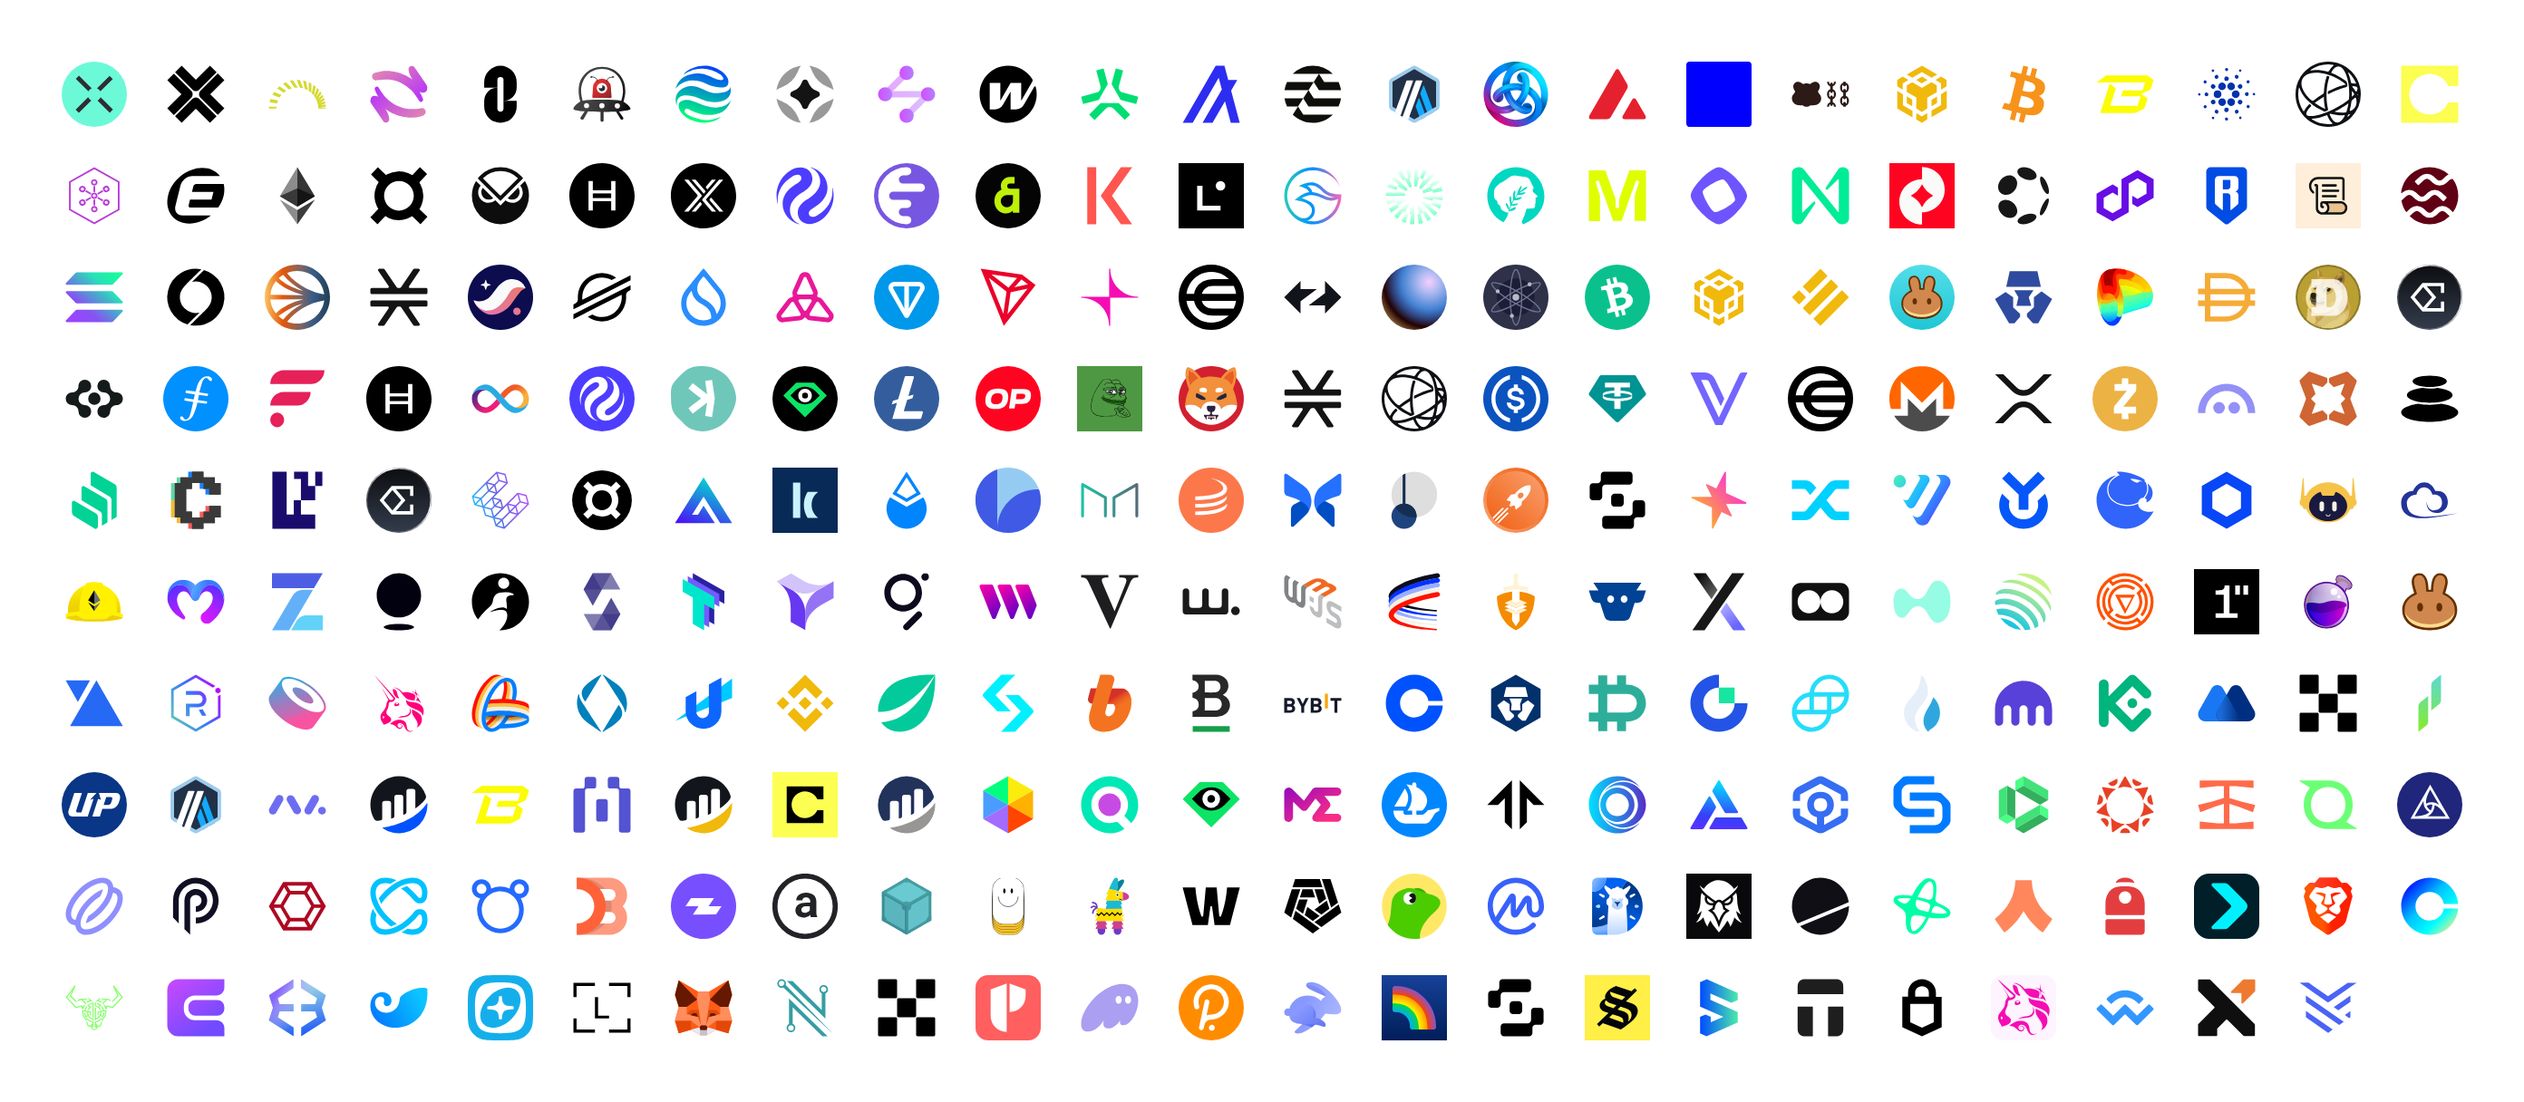
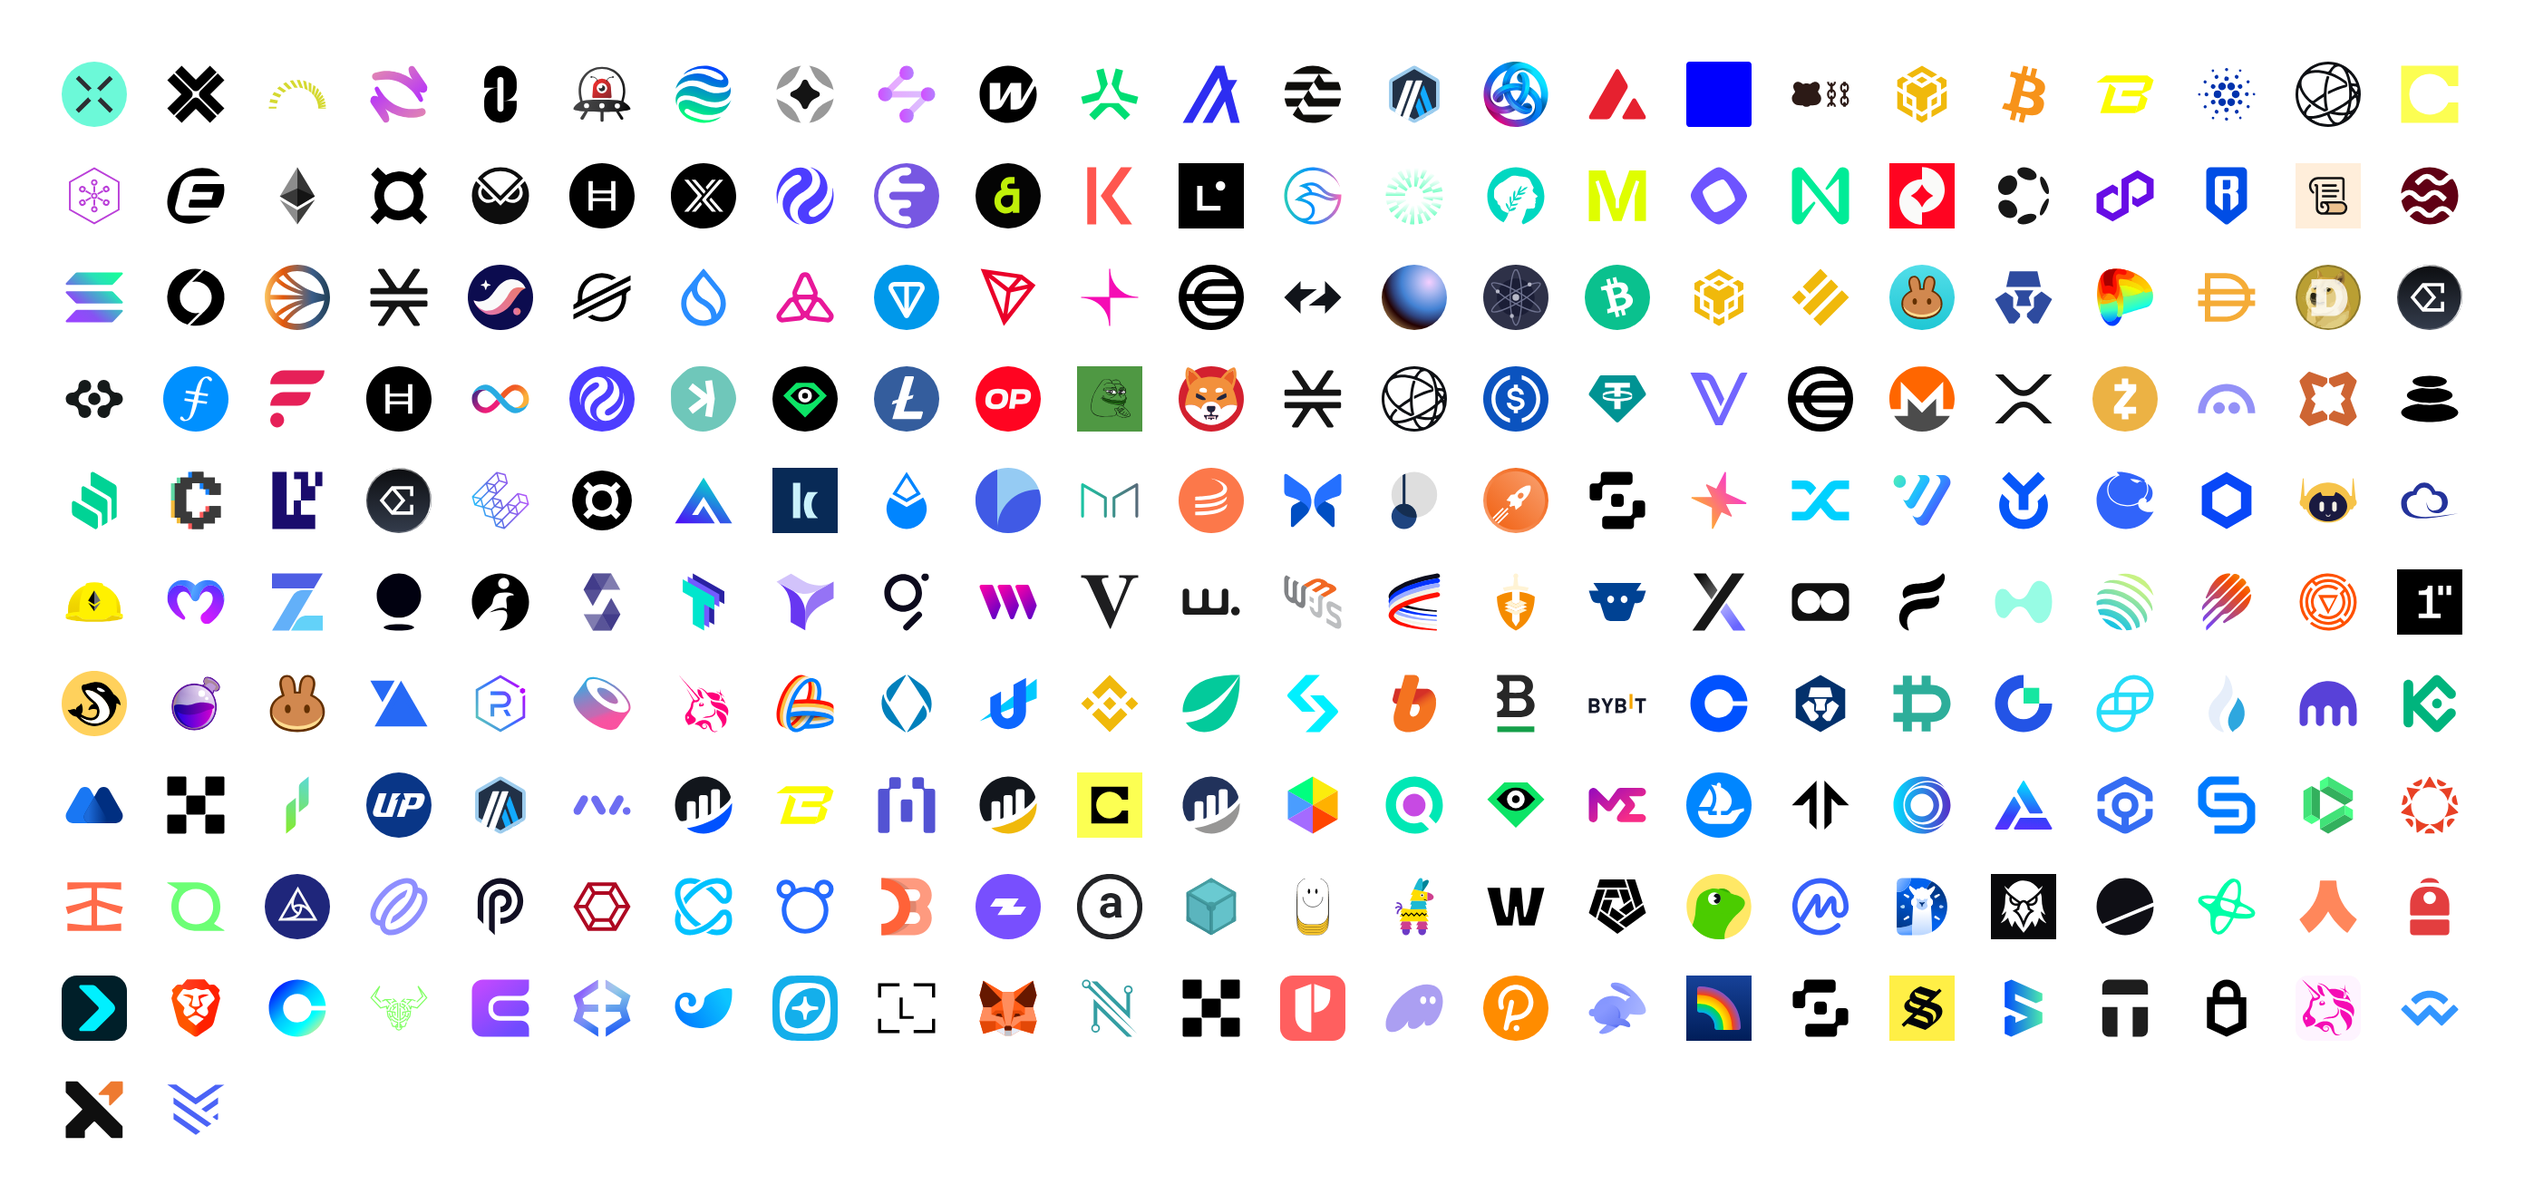
feat(dex): add Orca, Meteora and Fluid (#858)
* feat(dex): add Orca, Meteora and Fluid icons

Add Orca, Meteora and Fluid (#709) from official sources, each with a
Mono variant and a DEX slug (orca, meteora, fluid):

- Orca: logomark.svg from the brand-assets folder linked from
  docs.orca.so/reference/brand. Mono derived with boolean ops (orca
  ink, belly knocked out, disc separated by a 1.2-unit seam).
- Meteora: meteora-v2/symbol/symbol.svg from MeteoraAg/brand-kit, with
  symbol-negative.svg as the mono.
- Fluid: the sign from docs.fluid.io/fluid-logo-light.svg (the same
  paths fluid.io serves). Fluid publishes the sign in one colour only,
  so Fluid is black and FluidMono uses currentColor.

Curve is not re-added here: the official mark is a 1,521-polygon mesh
that costs about 25 kB brotli on its own (see #678 and #836).

Claude-Session: https://claude.ai/code/session_0113jxgcTGsEPf2j7H39sjZS

* chore(size): recompute every size-limit entry with the headroom policy

Orca, Meteora and Fluid take the dex entry to 15.78 kB, past its 14 kB
limit. Per CONTRIBUTING ("Bundle Size Limits"), all entries are
re-measured after `pnpm run build` and set to current size + max(10%,
1 kB), rounded up to the next whole kB (next 5 kB above 50 kB), instead
of nudging the one entry.

Claude-Session: https://claude.ai/code/session_0113jxgcTGsEPf2j7H39sjZS

* chore(size): re-measure every size-limit entry after merging develop

With Orca, Meteora and Fluid on top of the merged develop, the dex
[…]

Changed region(s): [[0.0, 0.0312, 1.0, 0.9688]]

diff --git a/src/dex/Orca.tsx b/src/dex/Orca.tsx
@@ -1,0 +1,45 @@
+import { createIcon } from '../utils';
+
+// Source: https://docs.orca.so/reference/brand (official brand assets folder: Orca Logo/logomark.svg)
+// Default: the official logomark.svg from the Orca Logo folder of the brand-assets Google Drive linked from docs.orca.so/reference/brand (yellow #FFD15C disc, black orca, white belly), SVGO and grid placement only
+// Mono: the brand kit has no one-colour logomark; derived mechanically from logomark.svg with boolean ops: the visible black orca stays ink, the white belly and eye are knocked out, and the yellow disc is ink separated from the orca by a 1.2-unit seam (on the 64 grid)
+/** Orca DEX icon (colored). */
+export const Orca = /* @__PURE__ */ createIcon(
+  'Orca',
+  '0 0 64 64',
+  () => (
+    <>
+      <path
+        fill="#FFD15C"
+        d="M64 32c0 17.67-14.33 32-32 32S0 49.67 0 32 14.33 0 32 0s32 14.33 32 32"
+      />
+      <path
+        fill="black"
+        d="M55.55 27.1c-1.62-2.27-3.34-3.45-4.41-4.03a24 24 0 0 0-1.26-2.05q-1.99-2.9-4.1-4.99-1.96-1.93-4.05-3.15c-2.4-1.4-4.9-2.09-7.62-2.1h-.03c-2.5 0-4.77.58-6.67 1.13l-1.64.5c-1.37.43-2.66.83-3.76 1.01q-1.12.18-1.73.84-.59.61-.68 1.61c-.13 1.25.32 2.92 1.28 4.84 1.92 3.82 5.6 8.04 9.38 10.73a10 10 0 0 1 1.1.92c-2.95.42-4.48 3.58-5.1 5.28-.16.45.28.85.73.7 1.78-.6 5.37-1.57 7.47-.42.4 1.87.23 3.72-.48 5.15a5 5 0 0 1-1.84 2.1q-1.28.83-3.05.91-1.92.1-4.28-.7-2.56-.85-5.58-2.72l-.03-.02-.04-.02-.07-.04c2.85-3.43 1.11-8.62.42-10.33-.1-.23-.41-.23-.54-.02-1.63 2.76-4.97 2.56-4.9 5.84h-.01c-2.55-2.08-4.45.68-7.63.26-.24-.03-.44.22-.31.43.91 1.6 3.91 6.14 8.35 6.04l.54.59.54.59q3.27 3.61 7.08 5.66 3.54 1.9 7.35 2.35 1.14.13 2.28.13c4.4 0 8.78-1.48 12.53-4.27q3.16-2.37 5.34-5.62 2.21-3.33 3.07-7.12.56-2.5.47-5.04c1.39-.41 2.93.82 3.68 1.54.18.17.48.06.48-.19-.04-1.15-.37-3.64-2.28-6.32m-12.7 20.97c-3.77 2.68-8.22 3.87-12.57 3.36-2.2-.26-4.37-.95-6.43-2.06q-2.97-1.6-5.62-4.3 5.93 3.6 10.46 3.6l.53-.01q2.45-.12 4.32-1.33 1.77-1.15 2.75-3.12.86-1.75.94-3.88a12 12 0 0 0-.53-4.02c-.84-2.82-2.6-5.3-4.94-6.96-1.73-1.24-3.47-2.84-5.02-4.64-1.26-1.45-2.33-2.94-3.13-4.37l-.02-.03-.03-.04c-.13-.25-.48-1.07.62-1.23 10.43-1.49 31.63 18.31 18.68 29.03"
+      />
+      <path
+        fill="white"
+        d="M24.19 19.04c-1.1.16-.76.98-.63 1.23l.03.05.02.02c.8 1.43 1.87 2.92 3.13 4.37 1.55 1.8 3.29 3.4 5.02 4.64 2.34 1.66 4.1 4.14 4.94 6.96q.61 2.02.53 4.02-.08 2.13-.94 3.88-.98 1.96-2.75 3.12-1.87 1.2-4.32 1.33h-.53q-4.53 0-10.46-3.59 2.65 2.7 5.62 4.3 3.11 1.67 6.43 2.06c4.35.51 8.8-.68 12.58-3.37 12.95-10.7-8.25-30.5-18.68-29.02"
+      />
+      <path fill="black" d="M16.87 42.72h.01z" />
+      <path
+        fill="white"
+        d="M35.04 18.32c-.36-.51-1.08-1.89 1.16-1.89s5.67 2.55 6.37 3.48c-.22.58-1.67.7-2.39.65s-1.95-.17-2.9-.65-1.88-1.09-2.24-1.6"
+      />
+    </>
+  ),
+  { fill: 'none' },
+);
+
+/** Orca DEX icon (monochrome). */
+export const OrcaMono = /* @__PURE__ */ createIcon(
+  'OrcaMono',
+  '0 0 64 64',
+  () => (
+    <path
+      fillRule="evenodd"
+      d="M64 32c0 17.67-14.33 32-32 32S0 49.67 0 32 14.33 0 32 0s32 14.33 32 32m-7.47-5.6c-1.77-2.4-3.35-3.52-4.51-4.2-.35-.63-.67-1.16-1.15-1.86-1.36-1.97-2.8-3.74-4.25-5.16-1.36-1.33-2.83-2.48-4.28-3.33-2.55-1.47-5.34-2.24-8.22-2.26h-.04c-2.64 0-5.08.6-7 1.17l-1.66.5c-1.37.43-2.59.82-3.6.98-.91.17-1.83.63-2.42 1.2-.5.58-.89 1.48-1 2.31-.1 1.47.4 3.46 1.4 5.5C21.72 25 25.31 29.2 29 32a7 7 0 0 0-2 1.78c-.93 1.17-1.54 2.56-1.87 3.45-.07.3-.12.77-.05 1.03.07.27.3.65.5.83.34.32 1.22.47 1.8.38 1.74-.59 4.35-1.84 6.01-.75.24 1.46.16 2.6-.5 3.82-.34.76-.74 1.22-1.4 1.62-.7.48-1.43.7-2.46.72-1.14.07-2.36-.13-3.84-.63q-2.06-.68-4.43-2.07c.95-1.79 1.2-3.83 1.06-5.51-.18-2.1-.84-4-1.2-4.87-.13-.23-.38-.57-.57-.69-.2-.12-.57-.23-.78-.23-.38-.01-1.01.4-1.33.74-.57 1.15-1.64 1.6-2.73 2.34-.77.53-1.52 1.3-1.96 2.42a5.3 5.3 0 0 0-3.13.05c-1.27.4-2.27.97-3.53.71-.47.05-1.18.3-1.41.6-.13.16-.28.52-.3.75s.1.63.2.87c.47.82 1.55 2.51 3.08 3.94 1.5 1.4 3.22 2.63 5.76 2.67l.2.22.54.6c2.24 2.46 4.78 4.49 7.4 5.9 2.45 1.31 5.14 2.17 7.78 2.5q1.21.13 2.42.13c4.6 0 9.33-1.63 13.24-4.5a25 25 0 0 0 5.63-5.92c1.52-2.31 2.64-4.9 3.24-7.53.39-1.74.46-2.7.5-4.06q.04 0 0 0l.32.17c.53.28.98.66 1.33 1 .42.24 1.2.46 1.57.32.2-.08.54-.33.68-.53.13-.2.23-.63.26-.9-.05-1.2-.49-4.02-2.5-6.97m1.3 7.02c0 .25-.3.36-.48.19-.75-.72-2.3-1.95-3.69-1.54a20 20 0 0 1-.46 5.04q-.85 3.78-3.07 7.12a23 23 0 0 1-5.34 5.62c-3.75 2.8-8.13 4.27-12.53 4.27q-1.14 0-2.28-.13-3.81-.46-7.35-2.35-3.8-2.05-7.08-5.66l-.54-.6-.54-.58c-4.44.1-7.44-4.44-8.35-6.04-.13-.21.07-.46.31-.43 3.18.42 5.08-2.34 7.63-.27v.01c-.05-3.28 3.28-3.08 4.91-5.84.13-.2.44-.21.54.02.7 1.7 2.43 6.9-.42 10.33l.07.04.04.02.03.02q3 1.87 5.58 2.73 2.36.78 4.28.7 1.76-.1 3.05-.92a5 5 0 0 0 1.84-2.1c.7-1.43.87-3.28.48-5.15-2.1-1.15-5.7-.19-7.47.41-.45.16-.9-.24-.73-.69.62-1.7 2.15-4.86 5.09-5.28h.02a10 10 0 0 0-1.1-.92c-3.78-2.7-7.47-6.9-9.4-10.73-.95-1.92-1.4-3.59-1.27-4.84q.1-1 .68-1.61.61-.66 1.73-.84c1.1-.18 2.4-.58 3.76-1.01l1.64-.5c1.9-.55 4.18-1.12 6.67-1.12h.03c2.73 0 5.22.69 7.62 2.1q2.09 1.21 4.05 3.14 2.11 2.08 4.1 5 .69 1 1.26 2.04c1.07.58 2.79 1.77 4.4 4.03 1.92 2.68 2.25 5.17 2.29 6.32m-26.07-4.07c2.04 1.45 3.64 3.52 4.58 5.9q.2.52.36 1.06.61 2.02.53 4.02-.08 2.13-.94 3.88-.98 1.96-2.75 3.12-1.87 1.2-4.32 1.33h-.53q-4.53 0-10.46-3.59 2.65 2.7 5.62 4.3c2.06 1.1 4.23 1.8 6.43 2.06 4.35.51 8.8-.68 12.58-3.37 12.95-10.7-8.25-30.5-18.68-29.02-.79.11-.83.57-.74.91a2 2 0 0 0 .17.4c.8 1.42 1.87 2.91 3.13 4.36 1.55 1.8 3.29 3.4 5.02 4.64m5.53-9.44c.94.48 2.17.6 2.9.65s2.16-.07 2.38-.65c-.7-.93-4.13-3.48-6.37-3.48s-1.52 1.38-1.16 1.88c.36.51 1.3 1.13 2.25 1.6"
+    />
+  ),
+  { fill: 'currentColor' },
+);

diff --git a/src/dex/Meteora.tsx b/src/dex/Meteora.tsx
@@ -1,0 +1,45 @@
+import { createIcon } from '../utils';
+
+// Source: https://github.com/MeteoraAg/brand-kit/blob/main/meteora-v2/symbol/symbol.svg
+// Source: https://github.com/MeteoraAg/brand-kit/blob/main/meteora-v2/symbol/symbol-negative.svg
+// Source: https://docs.meteora.ag/resources/miscellaneous/brand-kit
+// Default: meteora-v2/symbol/symbol.svg of the official brand kit linked from docs.meteora.ag (gradient #F5BD00 / #F54B00 / #6E45FF)
+// Mono: meteora-v2/symbol/symbol-negative.svg of the same kit (the one-colour #12121C symbol), with its fill set to currentColor
+/** Meteora DEX icon (colored). */
+export const Meteora = /* @__PURE__ */ createIcon(
+  'Meteora',
+  '0 0 64 64',
+  (_props, _id) => (
+    <g transform="translate(-2.47 -2.29)scale(.28572)">
+      <path
+        fill={`url(#${_id}-paint0_linear_7728_54)`}
+        d="M185.89 66.89c3.31-3.32 8.45-3.12 10.57.39 2.3 3.76 4.03 7.84 5.26 12.1.7 2.43-.1 5.26-2.12 7.28l-64.9 64.9c-3.92 3.92-8.8 6.63-13.97 7.73l-5.4 1.15c-5.15 1.12-10.06 3.83-13.96 7.73L51.54 218c-2.12-8.19-3.05-13.71 3.6-20.36zm14.06 27.96c2.16-2.17 5.5-.91 5.28 1.95-1.34 17.5-9.68 35.92-24.53 50.78-11.33 12.4-43.3 31.38-66.14 44.09-4.68 2.6-8.5-2.94-4.66-6.78l90.02-90.02zm-29.87-54.2c2.06-2.06 5.09-2.5 7.17-1.07 4.33 2.95 8.38 7.21 10.46 12.37.78 1.99.1 4.44-1.6 6.15L116.2 128c-3.93 3.92-8.8 6.63-13.97 7.73l-5.4 1.15c-5.15 1.13-10.07 3.83-13.96 7.73l-43.12 43.12c-2.12-8.19-1.1-15.66 5.54-22.3l25.17-25.17zm-29.62-12.43c3.9-3.9 9.48-5.42 14.07-3.69a52 52 0 0 1 8.27 4.03c3.47 2.08 3.64 7.15.4 10.4l-63.93 63.92c-3.66 3.66-8.64 5.61-13.4 5.27-5.01-.37-10.27 1.69-14.15 5.56L36.7 148.73c-2.12-8.19.63-17.4 7.28-24.04zM130.2 22c3.08-.04 4.27 3.62 1.93 5.95l-33.2 33.2-27.71 27.72-7.04 7.04-10.79 10.78c-2.25 2.26-5.58.22-4.33-2.64l10.48-23.82a77 77 0 0 1 1.95-4.42l.07-.15c6.04-12.8 15.76-26.37 24.9-35.51 14.66-14.66 27.83-18 43.75-18.15"
+      />
+      <defs>
+        <linearGradient
+          id={`${_id}-paint0_linear_7728_54`}
+          x1="236.8"
+          x2="67.91"
+          y1="22.23"
+          y2="217.51"
+          gradientUnits="userSpaceOnUse"
+        >
+          <stop stopColor="#F5BD00" />
+          <stop offset=".36" stopColor="#F54B00" />
+          <stop offset="1" stopColor="#6E45FF" />
+        </linearGradient>
+      </defs>
+    </g>
+  ),
+  { fill: 'none', ids: true },
+);
+
+/** Meteora DEX icon (monochrome). */
+export const MeteoraMono = /* @__PURE__ */ createIcon(
+  'MeteoraMono',
+  '0 0 64 64',
+  () => (
+    <path d="M50.64 16.82c.95-.94 2.42-.89 3.02.12a14 14 0 0 1 1.5 3.45c.2.7-.02 1.5-.6 2.08L36.02 41.02c-1.12 1.12-2.52 1.9-4 2.2l-1.54.33c-1.47.32-2.87 1.1-3.98 2.21L12.26 60c-.6-2.34-.87-3.91 1.03-5.82zm4.02 8c.62-.63 1.57-.27 1.51.55-.38 5-2.77 10.26-7.01 14.51-3.24 3.54-12.37 8.97-18.9 12.6-1.33.74-2.42-.84-1.33-1.94zm-8.53-15.5c.59-.58 1.45-.7 2.05-.3 1.23.84 2.39 2.06 2.98 3.54.23.56.03 1.26-.45 1.75L30.73 34.3c-1.12 1.12-2.51 1.89-4 2.2l-1.53.33a8 8 0 0 0-3.99 2.21L8.89 51.35c-.6-2.34-.31-4.47 1.58-6.37l7.2-7.2zm-8.47-3.54c1.12-1.12 2.71-1.55 4.02-1.06a15 15 0 0 1 2.37 1.15c.99.6 1.04 2.05.11 2.97L25.9 27.11c-1.05 1.04-2.47 1.6-3.83 1.5-1.43-.1-2.94.49-4.05 1.6l-10 10c-.6-2.34.18-4.97 2.08-6.87zM34.73 4c.88-.01 1.22 1.03.55 1.7l-9.48 9.48-7.92 7.93-2.01 2v.01l-3.08 3.08c-.64.65-1.6.06-1.24-.75l3-6.81a22 22 0 0 1 .55-1.26l.02-.05c1.73-3.65 4.5-7.53 7.12-10.14 4.19-4.2 7.95-5.15 12.5-5.19" />
+  ),
+  { fill: 'currentColor' },
+);

diff --git a/src/dex/Fluid.tsx b/src/dex/Fluid.tsx
@@ -1,0 +1,33 @@
+import { createIcon } from '../utils';
+
+// Source: https://docs.fluid.io/fluid-logo-light.svg
+// Source: https://fluid.io (site sign: /assets/fluid-sign-*.js, same paths)
+// Default: the Sign group of the official docs.fluid.io/fluid-logo-light.svg (fill #000000); its two paths are identical to the standalone sign fluid.io serves (white, for its dark UI)
+// Fluid publishes its sign as a one-colour mark only (black on light, white on dark); the blue #366FFF app tile and the FLUID token disc exist only as rasters (fluid.io/icons/apple-touch-icon.png, github.com/Instadapp/assets icons/tokens/fluid.png), so no coloured variant is added
+// Mono: the same two paths in currentColor
+// Fluid is Instadapp's rebrand (fluid.instadapp.io redirects to fluid.io); the older Instadapp-era Fluid mark in github.com/Instadapp/assets icons/protocols/fluid.svg is superseded by this sign
+/** Fluid DEX icon (colored). */
+export const Fluid = /* @__PURE__ */ createIcon(
+  'Fluid',
+  '0 0 64 64',
+  () => (
+    <>
+      <path d="M47.14 25.86c.75-.46 1.2-.16 1.4.61 1.96 7.77-4.06 12.13-11.9 12.13-7.86 0-15.63.42-18.6 8.52-1.25 3.43-.74 7.96.99 12.27.11.35-.17.7-.52.59-1.1-.35-3-1.1-4.5-2.38-3.08-2.66-5.34-7.87-4.04-13.58 2.34-10.3 11.18-14.24 22.43-15.17 5.55-.47 10.8-.51 14.74-2.99" />
+      <path d="M51.93 4.26c.7-1.03 3.78.98 1.86 7.04-4.52 14-19.92 11-29.02 12.86-3.32.68-6.86 1.94-9.22 3.8-.54.42-1.1.38-1.35 0-.7-1.05-1.17-2.63-1.17-3.96.02-11.18 14.14-9.64 21.47-10.74 7.23-1.07 12.36-3.36 17.43-9" />
+    </>
+  ),
+  { fill: '#000' },
+);
+
+/** Fluid DEX icon (monochrome). */
+export const FluidMono = /* @__PURE__ */ createIcon(
+  'FluidMono',
+  '0 0 64 64',
+  () => (
+    <>
+      <path d="M47.14 25.86c.75-.46 1.2-.16 1.4.61 1.96 7.77-4.06 12.13-11.9 12.13-7.86 0-15.63.42-18.6 8.52-1.25 3.43-.74 7.96.99 12.27.11.35-.17.7-.52.59-1.1-.35-3-1.1-4.5-2.38-3.08-2.66-5.34-7.87-4.04-13.58 2.34-10.3 11.18-14.24 22.43-15.17 5.55-.47 10.8-.51 14.74-2.99" />
+      <path d="M51.93 4.26c.7-1.03 3.78.98 1.86 7.04-4.52 14-19.92 11-29.02 12.86-3.32.68-6.86 1.94-9.22 3.8-.54.42-1.1.38-1.35 0-.7-1.05-1.17-2.63-1.17-3.96.02-11.18 14.14-9.64 21.47-10.74 7.23-1.07 12.36-3.36 17.43-9" />
+    </>
+  ),
+  { fill: 'currentColor' },
+);

diff --git a/src/manifest/index.ts b/src/manifest/index.ts
@@ -1458,6 +1458,14 @@ export const ICON_MANIFEST: readonly IconManifestEntry[] = [
   },
   { name: 'EkuboMono', category: 'dex' },
   {
+    name: 'Fluid',
+    category: 'dex',
+    slug: 'fluid',
+    variants: ['', 'Mono'],
+    brandColor: '#000000',
+  },
+  { name: 'FluidMono', category: 'dex' },
+  {
     name: 'Hyperliquid',
     category: 'dex',
     slug: 'hyperliquid',
@@ -1476,6 +1484,14 @@ export const ICON_MANIFEST: readonly IconManifestEntry[] = [
   { name: 'JupiterCircleMono', category: 'dex' },
   { name: 'JupiterMono', category: 'dex' },
   {
+    name: 'Meteora',
+    category: 'dex',
+    slug: 'meteora',
+    variants: ['', 'Mono'],
+    brandColor: '#f5bd00',
+  },
+  { name: 'MeteoraMono', category: 'dex' },
+  {
     name: 'Odos',
     category: 'dex',
     slug: 'odos',
@@ -1492,6 +1508,14 @@ export const ICON_MANIFEST: readonly IconManifestEntry[] = [
     brandColor: '#000000',
   },
   { name: 'OneinchMono', category: 'dex' },
+  {
+    name: 'Orca',
+    category: 'dex',
+    slug: 'orca',
+    variants: ['', 'Mono'],
+    brandColor: '#ffd15c',
+  },
+  { name: 'OrcaMono', category: 'dex' },
   {
     name: 'Osmosis',
     category: 'dex',

diff --git a/src/dynamic/imports/dex.ts b/src/dynamic/imports/dex.ts
@@ -23,16 +23,22 @@ export const dexImports: Record<
   DydxSquareMono: () => import('../../dex/Dydx'),
   Ekubo: () => import('../../dex/Ekubo'),
   EkuboMono: () => import('../../dex/Ekubo'),
+  Fluid: () => import('../../dex/Fluid'),
+  FluidMono: () => import('../../dex/Fluid'),
   Hyperliquid: () => import('../../dex/Hyperliquid'),
   HyperliquidMono: () => import('../../dex/Hyperliquid'),
   Jupiter: () => import('../../dex/Jupiter'),
   JupiterCircle: () => import('../../dex/Jupiter'),
   JupiterCircleMono: () => import('../../dex/Jupiter'),
   JupiterMono: () => import('../../dex/Jupiter'),
+  Meteora: () => import('../../dex/Meteora'),
+  MeteoraMono: () => import('../../dex/Meteora'),
   Odos: () => import('../../dex/Odos'),
   OdosMono: () => import('../../dex/Odos'),
   Oneinch: () => import('../../dex/Oneinch'),
   OneinchMono: () => import('../../dex/Oneinch'),
+  Orca: () => import('../../dex/Orca'),
+  OrcaMono: () => import('../../dex/Orca'),
   Osmosis: () => import('../../dex/Osmosis'),
   OsmosisMono: () => import('../../dex/Osmosis'),
   PancakeSwap: () => import('../../dex/PancakeSwap'),

diff --git a/src/dex/index.ts b/src/dex/index.ts
@@ -3,10 +3,13 @@ export * from './Camelot';
 export * from './CowProtocol';
 export * from './Dydx';
 export * from './Ekubo';
+export * from './Fluid';
 export * from './Hyperliquid';
 export * from './Jupiter';
+export * from './Meteora';
 export * from './Odos';
 export * from './Oneinch';
+export * from './Orca';
 export * from './Osmosis';
 export * from './PancakeSwap';
 export * from './ParaSwap';

diff --git a/src/meta/index.ts b/src/meta/index.ts
@@ -421,10 +421,13 @@ export const DEX_SLUG_TO_NAME = {
   cowprotocol: 'CowProtocol',
   dydx: 'Dydx',
   ekubo: 'Ekubo',
+  fluid: 'Fluid',
   hyperliquid: 'Hyperliquid',
   jupiter: 'Jupiter',
+  meteora: 'Meteora',
   odos: 'Odos',
   oneinch: 'Oneinch',
+  orca: 'Orca',
   osmosis: 'Osmosis',
   pancakeswap: 'PancakeSwap',
   paraswap: 'ParaSwap',

diff --git a/.changeset/new-dex-orca-meteora-fluid.md b/.changeset/new-dex-orca-meteora-fluid.md
@@ -1,0 +1,9 @@
+---
+"react-web3-icons": minor
+---
+
+Add the Orca, Meteora and Fluid DEX icons (#709), each with a `Mono` variant and a `<DexIcon>` slug (`orca`, `meteora`, `fluid`):
+
+- `Orca` / `OrcaMono`: the official logomark from Orca's brand assets (yellow disc with the orca).
+- `Meteora` / `MeteoraMono`: the v2 symbol and its one-colour version from Meteora's brand kit.
+- `Fluid` / `FluidMono`: the Fluid (Instadapp) sign from fluid.io. Fluid publishes its sign in one colour only, so `Fluid` is black and `FluidMono` uses `currentColor`.
